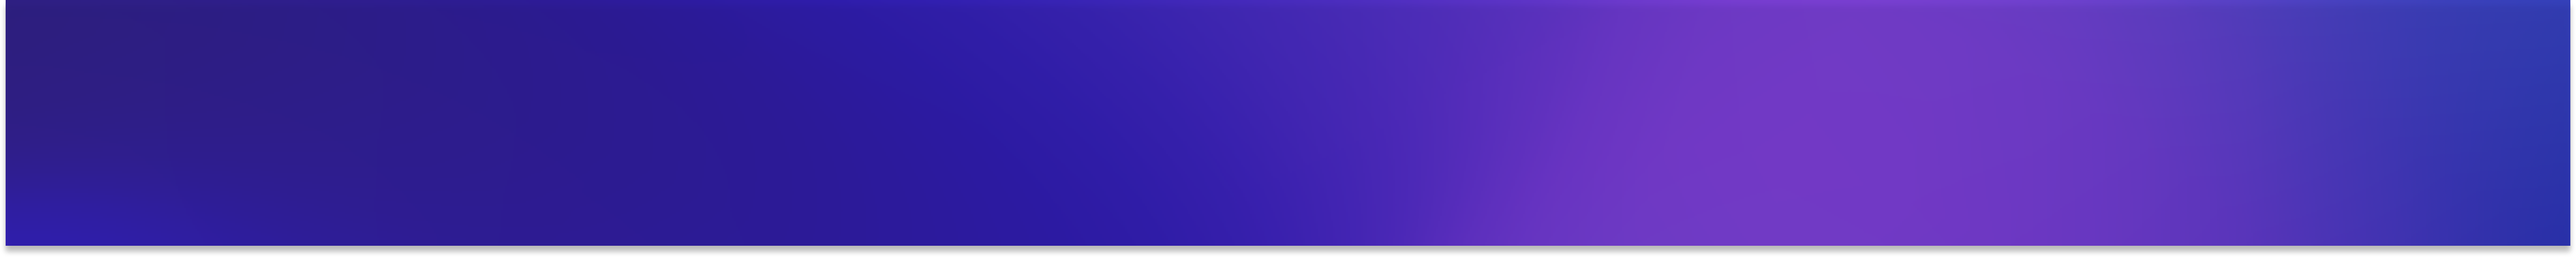
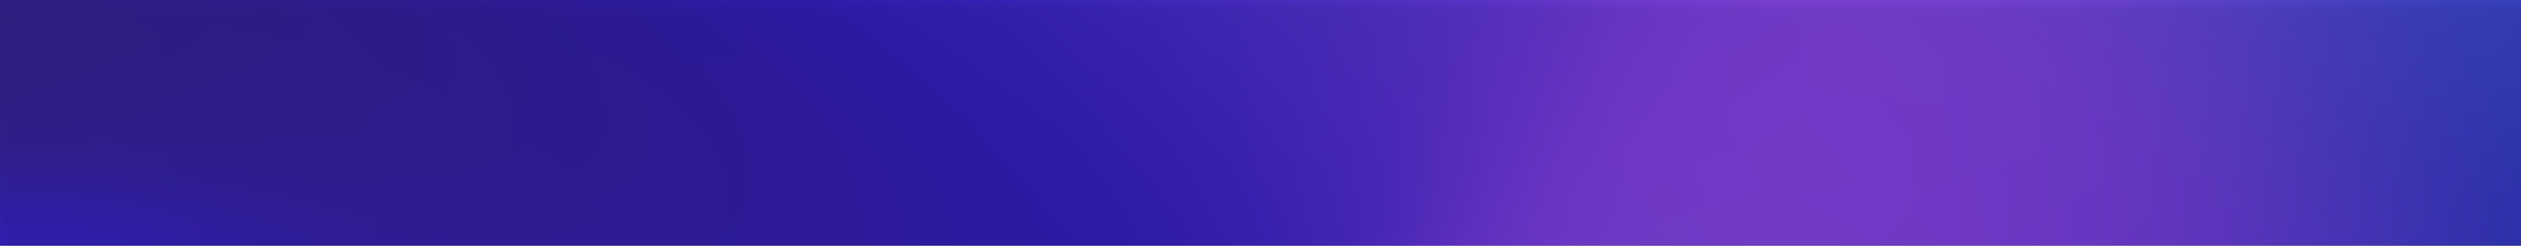
fixed css

Changed region(s): [[0.0, 0.0, 1.0, 1.0]]

diff --git a/web/css/style.css b/web/css/style.css
@@ -390,7 +390,7 @@ body {
     font-size: 12px;
     letter-spacing: 1px;
     line-height: 18px;
-    margin-top: 7px;
+    margin-top: 3px;
 }
 
 .app-btn-group {
@@ -518,12 +518,6 @@ body {
     background-image: url(Head.png);
     background-size: 100% 100%;
     background-repeat: round;
-    
-/*    background: url(Head.png) round center center fixed;
-    -webkit-background-size: cover;
-    -moz-background-size: cover;
-    -o-background-size: cover;
-    background-size: cover;    */
 }
 
 .nav-podmenu {
@@ -539,7 +533,7 @@ body {
 }
 
 .menu-big {
-    padding-left: 43.7%;
+    padding-left: 45.7%;
     margin-top: -8.5px;
 }
 
@@ -573,9 +567,18 @@ body {
     border-color: transparent transparent #343A40 transparent;
 }
 
+.dropdown-menu_link-profile {
+    font-size: 12px;
+}
+
+.dropdown-menu_link-profile a {
+    color: #bcbcbc;
+}
+
 .dropdown_footer div {
-    padding: 20px 30px 0px 30px;
+    padding: 35px 30px 0px 30px;
     font-family: "Mplus 1p";
+    font-size: 14px;
 }
 
 .dropdown a#navbarDropdown:hover {
@@ -625,8 +628,6 @@ body {
 
 .dropdown_account-block {
     font-family: "Mplus 1p";
-    border: 1px solid #414141;
-    padding: 10px;
 }
 
 .mail-border p {
@@ -651,7 +652,6 @@ body {
     letter-spacing: 1.26px;
     line-height: 18px;
     margin-bottom: 0;
-    margin-top: 12px;    
 }
 
 .profile-bg {
@@ -833,7 +833,8 @@ a.close-menu{
 }
 
 .menu-collapsed-nav {
-    height: 139px; 
+    height: 139px;
+    /*box-shadow: 0px 5px 7px -1px rgba(0, 0, 0, 0.35);*/
 }
 
 .menu-collapsed-container {

diff --git a/modules/clients/views/layouts/header.php b/modules/clients/views/layouts/header.php
@@ -26,33 +26,12 @@
         <div class=" circle-scroll-container px-0 menu-start" style="text-align: center;">
             <div class="sticky-top col-12">
                 <div class="modal_menu">
-                    <div class="border-menu">
-                        <span class="item">
-                            <p style="width:100%; height: 42.5px;">
-                                <a href="<?= Url::to(['clients/index']) ?>">Главная</a>
-                            </p>
-                        </span>
-                    </div>
-                    <div class="border-menu">
-                        <span class="item">
-                            <p style="width:100%; height: 42.5px;">
-                                <a href="<?= Url::to(['voting/index']) ?>">Голосование</a>
-                            </p>
-                        </span>
-                    </div>
-                    <div class="border-menu">
-                        <span class="item">
-                            <p style="width:100%; height: 42.5px;">
-                                <a href="<?= Url::to(['profile/index']) ?>">Профиль</a>
-                            </p>
-                        </span>
-                    </div>
                     <div class="border-menu">      
                         <span class="item"> 
                           <nav class="nav menu-big">
                           <a class="nav-link nav-bt" href="<?= Url::to(['personal-account/index']) ?>">Лицевой счет</a>
+                          <a class="nav-link nav-bt nav-podmenu" href="#">Платежи</a>                          
                           <a class="nav-link nav-bt nav-podmenu" href="<?= Url::to(['personal-account/receipts-of-hapu']) ?>">Квитанция ЖКУ</a>
-                          <a class="nav-link nav-bt nav-podmenu" href="#">Платежи</a>
                           <a class="nav-link nav-bt nav-podmenu" href="<?= Url::to(['personal-account/counters']) ?>">Показания приборов учета</a>
                         </nav>
                         </span>
@@ -63,14 +42,28 @@
                                 <a href="<?= Url::to(['requests/index']) ?>">Заявки</a>
                             </p>
                         </span>
+                    </div>                    
+                    <div class="border-menu">
+                        <span class="item">
+                            <p style="width:100%; height: 42.5px;">
+                                <a href="<?= Url::to(['clients/index']) ?>">Новости</a>
+                            </p>
+                        </span>
                     </div>
                     <div class="border-menu">
                         <span class="item">
                             <p style="width:100%; height:42.5px;">
-                                <a href="<?= Url::to(['paid-services/index']) ?>">Платные услуги</a>
+                                <a href="<?= Url::to(['paid-services/index']) ?>">Услуги</a>
                             </p>
                         </span>
-                    </div>                    
+                    </div>                                        
+                    <div class="border-menu">
+                        <span class="item">
+                            <p style="width:100%; height: 42.5px;">
+                                <a href="<?= Url::to(['voting/index']) ?>">Опрос</a>
+                            </p>
+                        </span>
+                    </div>
                 </div>
             </div>
         </div>

diff --git a/modules/clients/widgets/views/userinfo/profile.php b/modules/clients/widgets/views/userinfo/profile.php
@@ -23,8 +23,11 @@
                 </div>
                 <div class="col-lg-6 col-sm-6 col-6 dropdown_user-info">
                     <p class="dropdown_user-name">
-                        <?= Yii::$app->userProfile->fullNameClient ?>
+                        <?= Yii::$app->userProfile->fullNameClient ?>                        
                     </p>
+                    <div class="dropdown-menu_link-profile">
+                        <?= Html::a('Мой профиль', ['profile/index']) ?>
+                    </div>                    
                     <div class="mail-border">
                         <p class="mail-color">Iam_Mayer@gmail.com</p>
                     </div>
